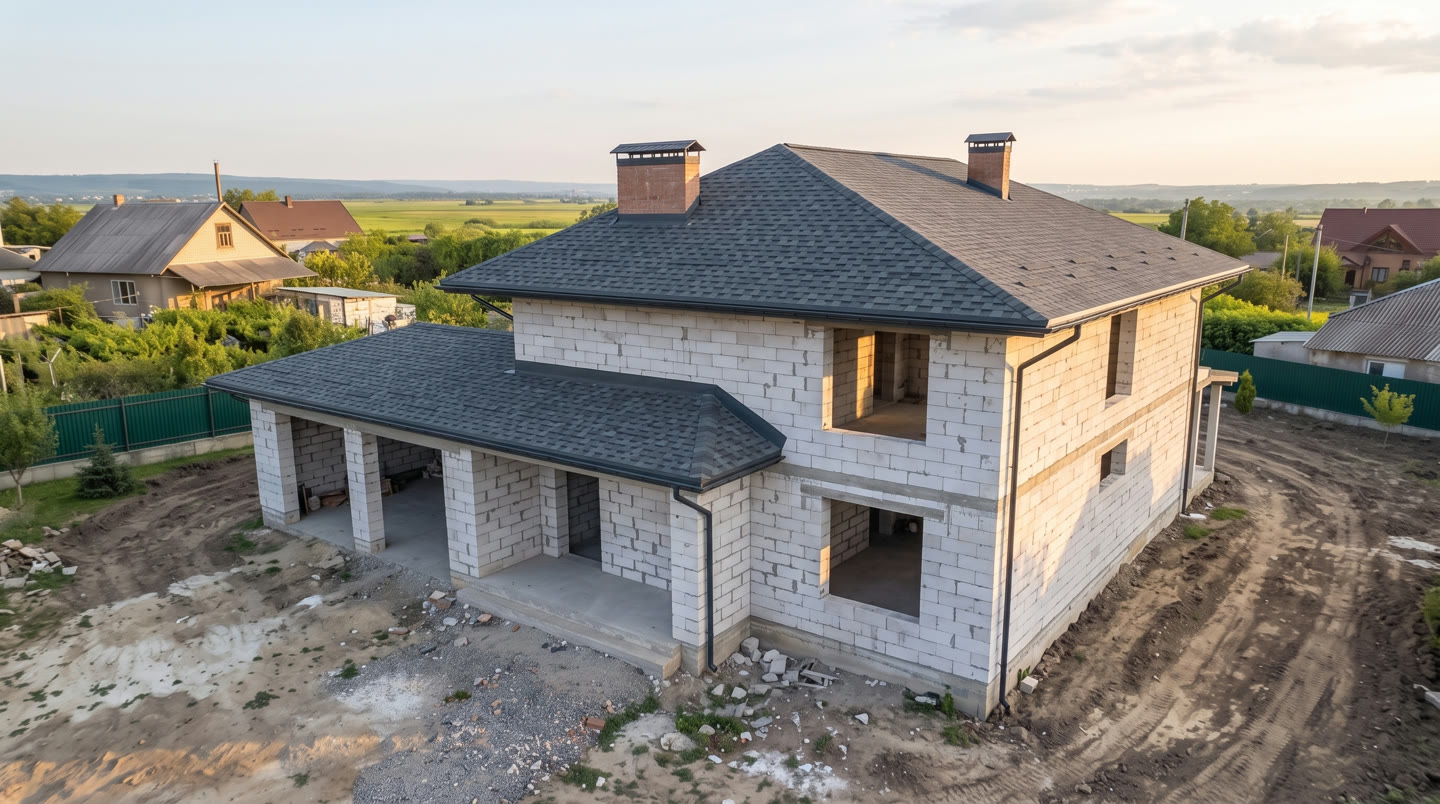
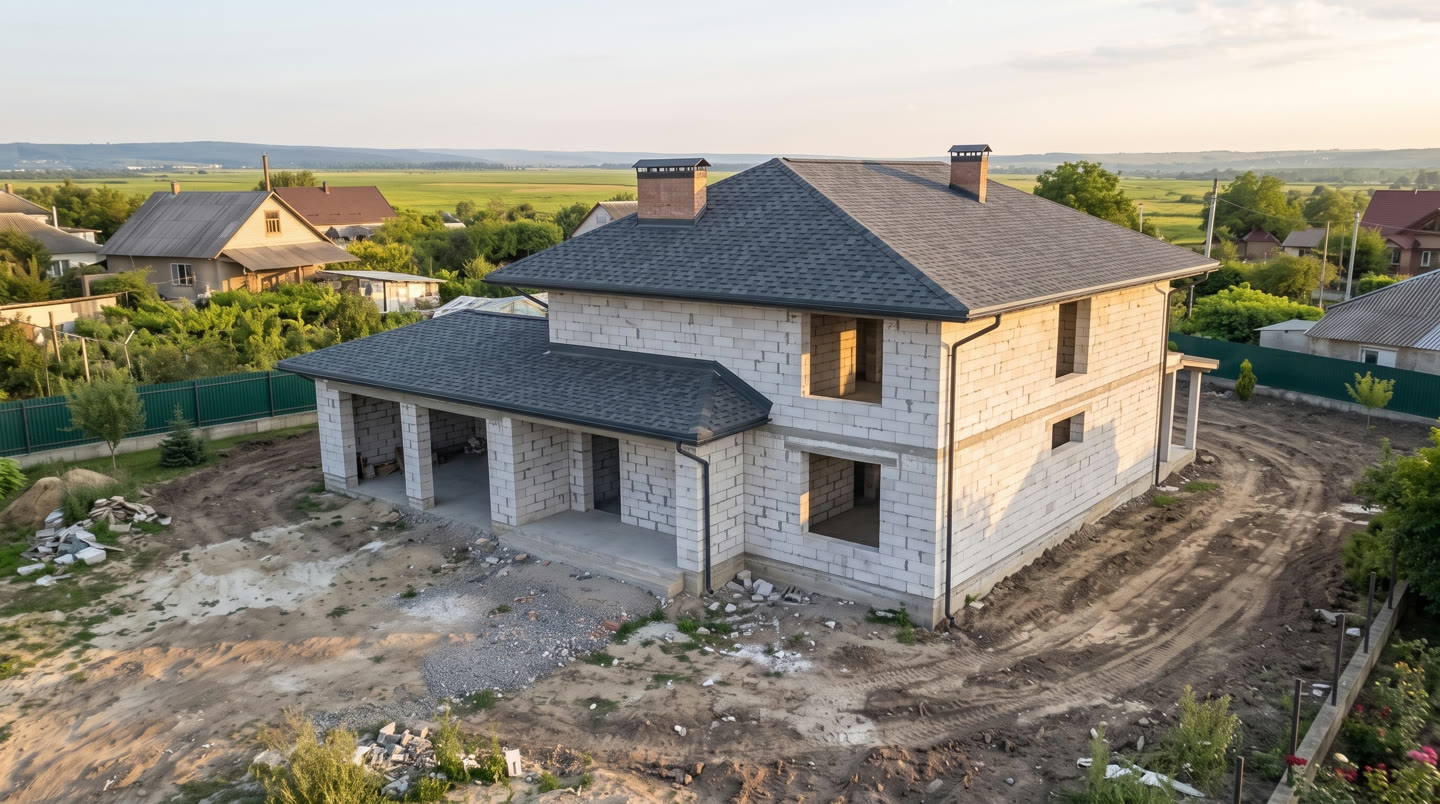
fix(tour): aligned sindrila shipped; cofraj+montaj retries discarded as worse
6 credits, 1 of 3 usable. sindrila 0.862->1.002 scale, +141px -> -13px.
cofraj and montaj regenerations measured worse than what was live, so
the originals stay. Hit rate ~1 in 3 recorded on the board.

diff --git a/docs/STATUS.md b/docs/STATUS.md
@@ -32,8 +32,14 @@ regenerated from stage-2 on 2026-08-06, 2 credits, MAD 6.76 ≈ sibling 6.08).
 @0.85× ✗** · new `tigla-metalica` −12/+6px ✓ (shipped; the card used to be a
 copy of stage-3). A regenerated `sapatura` measured WORSE (dy+35) and was
 discarded — 2 of the 4 credits that round bought nothing.
-NEXT (needs owner approval, 6 credits): regenerate cofraj, sindrila,
-montaj-invelitoare from their parents.
+**Round 2 (6 credits, 2026-08-06):** regenerated cofraj / sindrila / montaj.
+Only **sindrila improved** (0.862→1.002 scale, +141px→−13px) and shipped.
+`cofraj` (new 0.922/+138px vs old 0.982/+70px) and `montaj` (new 0.821/+224px
+vs old 0.853/+141px) came back WORSE and were discarded.
+**Hit rate is ~1 in 3** — budget accordingly, and always measure before
+shipping (`estimateAffinePartial2D` vs the parent frame; script pattern in
+scratchpad/align_stages.py). STILL MISALIGNED: `fundatie-cofraj` (+70px),
+`montaj-invelitoare` (+141px @0.85×). Retry = 2 credits each, coin flip.
 
 The 5 MAIN stages still do not align with each other — that needs them
 regenerated from one common parent (~8 credits, untested).
